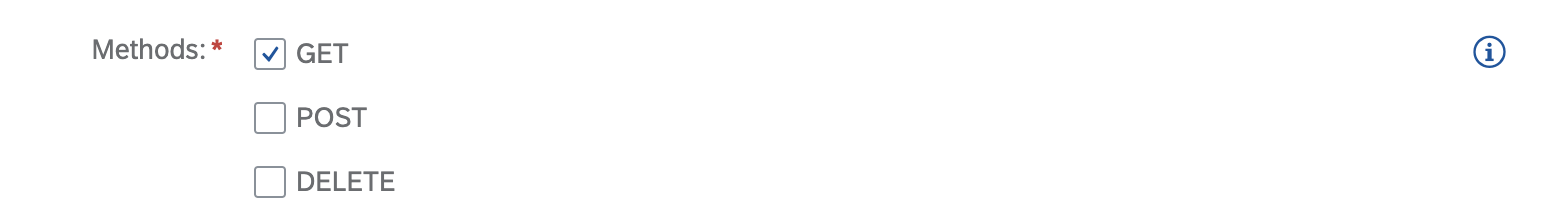
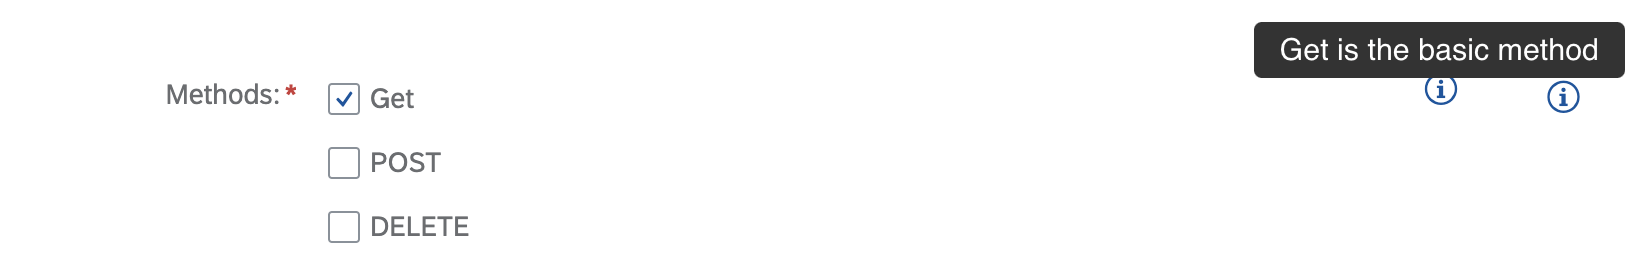
Adjust multi checkboxes

diff --git a/src/components/Extensibility/components-form/MultiCheckbox.js b/src/components/Extensibility/components-form/MultiCheckbox.js
@@ -20,7 +20,6 @@ export function MultiCheckbox({
   schema,
   storeKeys,
   required,
-
   resource,
   compact,
   placeholder,
@@ -31,31 +30,52 @@ export function MultiCheckbox({
   const value = getValue(storeKeys, resource);
 
   const getCheckboxesOptions = () => {
-    if (schema.get('enum')) {
+    if (schema.get('options')) {
       const translationPath = storeKeys
         .toArray()
         .filter(el => typeof el === 'string')
         .join('.');
 
-      let enumOptions = schema.toJS().enum;
+      let options = schema.toJS().options;
       // if there's only 1 option, it will be not in an array
-      if (typeof enumOptions === 'string') {
-        enumOptions = [enumOptions];
+      if (typeof options === 'string') {
+        options = [options];
       }
-      if (!Array.isArray(enumOptions)) {
-        enumOptions = [];
+      if (!Array.isArray(options)) {
+        options = [];
       }
+      console.log('!!!options', options);
+      const displayOptions = options.map(option => {
+        console.log('typeof option', typeof option, option);
+        if (typeof option === 'string') {
+          return {
+            key: option,
+            text: exists(translationPath + '.' + option)
+              ? tExt(translationPath + '.' + option)
+              : option,
+          };
+        }
+        let defaultText = exists(translationPath + '.' + option.key)
+          ? tExt(translationPath + '.' + option.key)
+          : option.key;
 
-      const options = enumOptions.map(key => ({
-        key,
-        text: exists(translationPath + '.' + key)
-          ? tExt(translationPath + '.' + key)
-          : key,
-      }));
-      console.log('options', options);
+        if (option.name) {
+          defaultText = exists(translationPath + '.' + option.name)
+            ? tExt(translationPath + '.' + option.name)
+            : option.name;
+        }
+        return {
+          key: option.key,
+          text: defaultText,
+          description: exists(translationPath + '.' + option.description)
+            ? tExt(translationPath + '.' + option.description)
+            : option.description,
+        };
+      });
+      console.log('!!!displayOptions', displayOptions);
       return {
         input: Inputs.Checkboxes,
-        options,
+        options: displayOptions,
       };
     } else {
       return {

diff --git a/src/shared/ResourceForm/inputs/Checkboxes.js b/src/shared/ResourceForm/inputs/Checkboxes.js
@@ -1,5 +1,8 @@
 import React from 'react';
-import { FormRadioGroup, Checkbox } from 'fundamental-react';
+import { Checkbox, FormRadioGroup, Icon } from 'fundamental-react';
+import { Label } from '../../../shared/ResourceForm/components/Label';
+
+import { Tooltip } from 'shared/components/Tooltip/Tooltip';
 
 export function Checkboxes({
   value = [],
@@ -17,21 +20,34 @@ export function Checkboxes({
     }
   };
   return (
-    <div class="fd-col fd-col-md--11">
-      <FormRadioGroup inline={inline} className="inline-radio-group" {...props}>
-        {options.map(({ key, text }) => (
-          <Checkbox
-            data-testid={`${dataTestID}.${key}`}
-            compact
-            key={key}
-            value={key}
-            checked={value?.includes(key)}
-            onChange={e => updateValue(key, e.target.checked)}
-          >
-            {text}
-          </Checkbox>
-        ))}
-      </FormRadioGroup>
-    </div>
+    <FormRadioGroup
+      inline={inline}
+      className="inline-radio-group fd-col fd-col-md--12"
+      {...props}
+    >
+      {options.map(({ key, text, description }) => (
+        <div class="fd-row">
+          <div class="fd-col-md--11">
+            <Checkbox
+              data-testid={`${dataTestID}.${key}`}
+              compact
+              key={key}
+              value={key}
+              checked={value?.includes(key)}
+              onChange={e => updateValue(key, e.target.checked)}
+            >
+              {text}
+            </Checkbox>
+          </div>
+          <div className="fd-col-md--1 tooltip-column">
+            {description && (
+              <Tooltip className="has-tooltip" delay={0} content={description}>
+                <Icon ariaLabel="" size="m" glyph="message-information" />
+              </Tooltip>
+            )}
+          </div>
+        </div>
+      ))}
+    </FormRadioGroup>
   );
 }

diff --git a/src/shared/ResourceForm/components/FormField.js b/src/shared/ResourceForm/components/FormField.js
@@ -42,7 +42,7 @@ export function FormField({
           )}
         </div>
       </div>
-      <div className="fd-col fd-col-md--1 tooltip-column">
+      <div className="fd-col fd-col-md--1 tooltip-column tooltip-column--with-padding">
         {tooltipContent && (
           <Tooltip className="has-tooltip" delay={0} content={tooltipContent}>
             <Icon ariaLabel="" size="m" glyph="message-information" />

diff --git a/src/shared/ResourceForm/components/FormField.scss b/src/shared/ResourceForm/components/FormField.scss
@@ -1,15 +1,20 @@
 .resource-form {
   .tooltip-column {
     text-align: center;
-    padding: 12px 0 !important;
 
     [class*='sap-icon'] {
       color: var(--sapButton_TextColor);
     }
+
+    &--with-padding {
+      padding: 12px 0 !important;
+    }
   }
+
   .form-field__label {
     padding: 12px 0 !important;
   }
+
   .action-button {
     padding: 8px 0 !important;
   }

diff --git a/docs/extensibility/form-section.md b/docs/extensibility/form-section.md
@@ -340,7 +340,10 @@ MultiCheckbox widget render checkboxes that will be put saved into one path as a
 
 #### Widget-specific parameters
 
-- **enum[]** - _[required]_ an array of strings to generate the checkboxes. Optionally can be a string containing a [JSONata](jsonata.md) expression returning an array of options.
+- **options[]** - _[required]_ an array of objects to generate the checkboxes.
+  - **key** - _[required]_ a value used to generate checkboxes. Will be set if checkbox is selected. This `key` together with `path` defined for MultiCheckbox (`{path}.{key}`) can be used for **translation**.
+  - **name** - an optional name for the checkbox instead of the default capitalized last part of the path. This can be a key from the **translation** section.
+  - **description** - a string displayed in a tooltip when you hover over a question mark icon, next to the checkbox's label.
 - **required** - a boolean which specifies if a field is required. The default value is taken from CustomResourceDefintion (CRD); if it doesn't exist in the CRD, then it defaults to `false`.
 - **inputInfo** - a string below the input field that shows how to fill in the input.
 - **description** - a string displayed in a tooltip when you hover over a question mark icon, next to the input's label. The default value is taken from the CustomResourceDefintion (CRD).
@@ -352,10 +355,12 @@ MultiCheckbox widget render checkboxes that will be put saved into one path as a
 - widget: MultiCheckbox
   path: spec.methods
   simple: true
-  enum:
-    - GET
-    - POST
-    - DELETE
+  options:
+    - key: GET
+      name: Get
+      description: Get is the basic method
+    - key: POST
+    - key: DELETE
 ```
 
 <img src="./assets/form-widgets/MultiCheckbox.png" alt="Example of a MultiCheckbox widget" style="border: 1px solid #D2D5D9">
